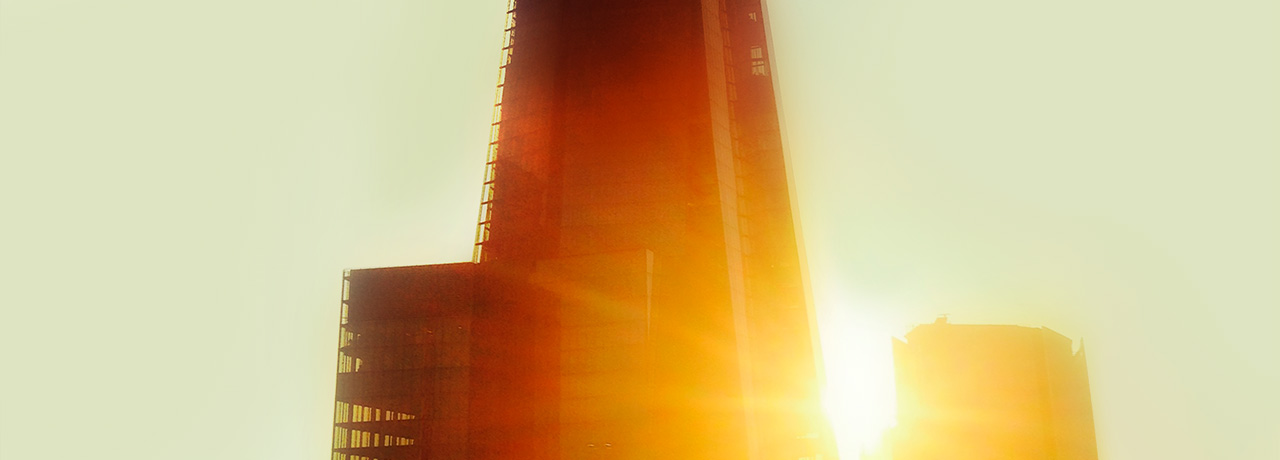
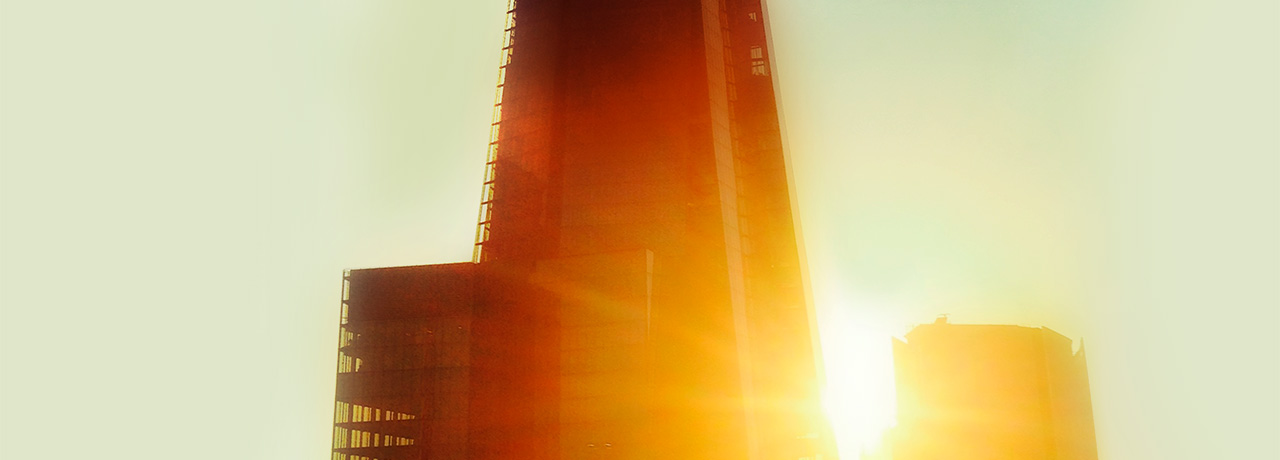
Update homepage background

Changed region(s): [[0.5625, 0.0, 0.625, 0.4261], [0.75, 0.7, 0.8438, 0.7913]]

diff --git a/src/main/static/assets/css/main.scss b/src/main/static/assets/css/main.scss
@@ -174,7 +174,7 @@ section#welcome {
   font-size: 1.2em;
   height: 360px;
   font-family: $reactorFontSpecial;
-  background: #dfe7ca url('../img/homepage-bg.jpg') no-repeat center 0;
+  background: #dfe7c9 url('../img/homepage-bg.jpg') no-repeat center 0;
   article {
     color: white;
     text-align: center;
